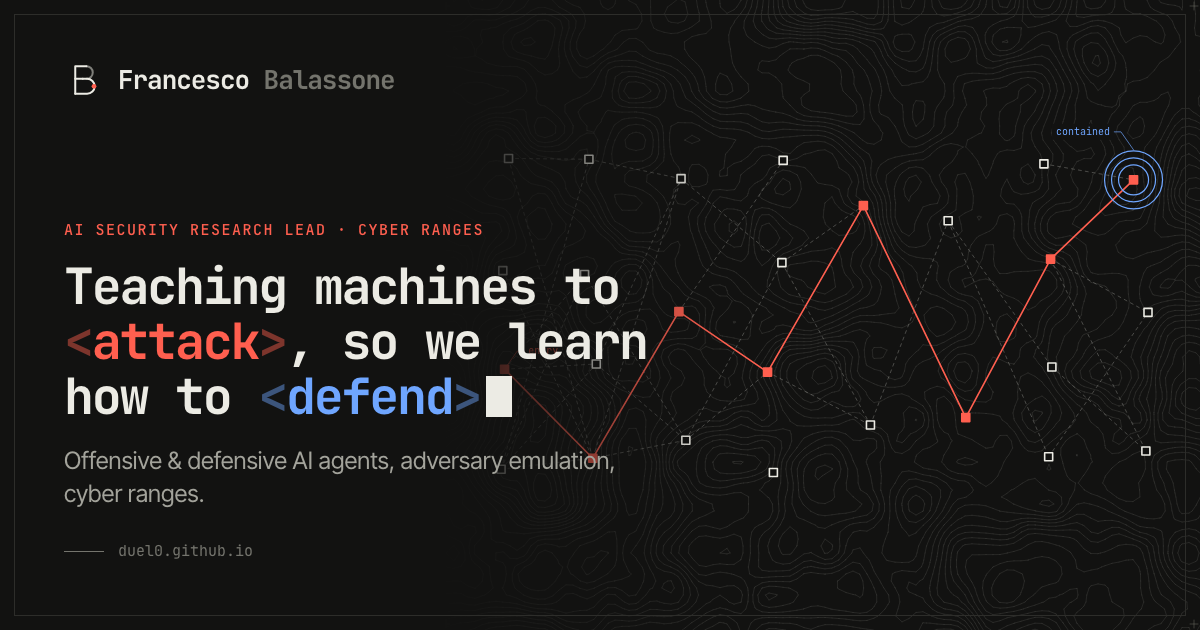
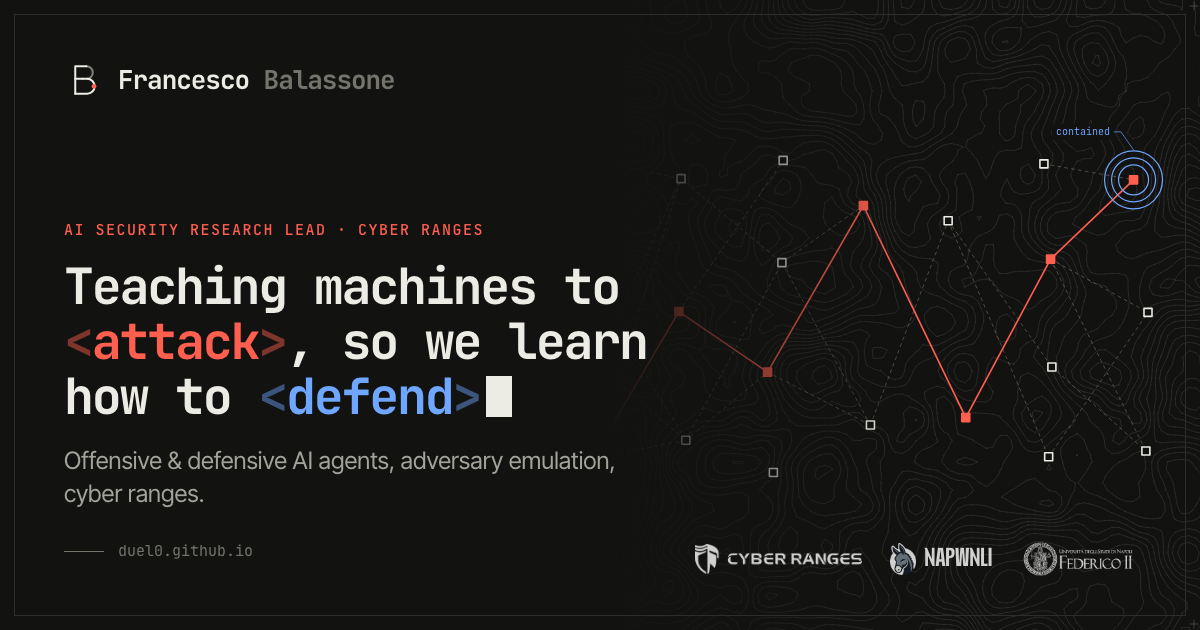
Refresh social card: affiliations, cleaner text area, versioned URL
- Card: figure fades out behind the text; CYBER RANGES · NAPWNLI ·
  Federico II logos in the footer line
- og:image URLs carry ?v=<content hash> so LinkedIn/X/WhatsApp fetch the
  new image instead of serving their cached one

diff --git a/templates/og.html b/templates/og.html
@@ -8,7 +8,7 @@
     html, body { margin: 0; width: 1200px; height: 630px; overflow: hidden; background: var(--paper); }
     .og { position: relative; width: 1200px; height: 630px; }
     .og-fig { position: absolute; top: 0; right: 0; width: 760px; height: 630px;
-      -webkit-mask-image: linear-gradient(90deg, transparent 0, #000 38%); mask-image: linear-gradient(90deg, transparent 0, #000 38%); }
+      -webkit-mask-image: linear-gradient(90deg, transparent 0, transparent 22%, #000 62%); mask-image: linear-gradient(90deg, transparent 0, transparent 22%, #000 62%); }
     .og-fig canvas { display: block; width: 100%; height: 100%; }
     .og-text { position: absolute; inset: 0; z-index: 2; box-sizing: border-box; padding: 60px 64px 54px;
       display: flex; flex-direction: column; width: 720px; }
@@ -23,12 +23,22 @@
     .og-desc { margin: 20px 0 0; font: 400 24px/1.4 var(--sans); color: var(--ink-2); }
     .og-foot { margin-top: 30px; display: flex; align-items: center; gap: 14px; font: 15px var(--mono); color: var(--ink-3); }
     .og-foot b { width: 40px; height: 1px; background: var(--ink-3); }
+    .og-logos { position: absolute; right: 64px; bottom: 54px; z-index: 3; display: flex; align-items: center; gap: 28px; opacity: .8; }
+    .og-logos img { display: block; width: auto; }
+    .og-logos .cr { height: 30px; } .og-logos .nap { height: 32px; } .og-logos .un { height: 34px; }
+    .og-logos span { font: 400 26px/1 "Napoli", var(--sans); color: #fff; }
+    .og-logos .napwnli { display: flex; align-items: center; gap: 8px; }
     .og-title .h1-cursor { animation: none; }
     .og::after { content: ""; position: absolute; inset: 14px; border: 1px solid var(--line); pointer-events: none; }
   </style>
 </head>
 <body>
   <div class="og">
+    <div class="og-logos" aria-hidden="true">
+      <img class="cr" src="{{root}}assets/logos/cyber-ranges.png">
+      <span class="napwnli"><img class="nap" src="{{root}}assets/team/napwnli-sm.png"><span>NAPWNLI</span></span>
+      <img class="un" src="{{root}}assets/logos/unina.png">
+    </div>
     <div class="og-fig"><canvas data-fig="{{fig}}" data-seed="{{seed}}" data-static aria-hidden="true"></canvas></div>
     <div class="og-text">
       <div class="og-brand">
